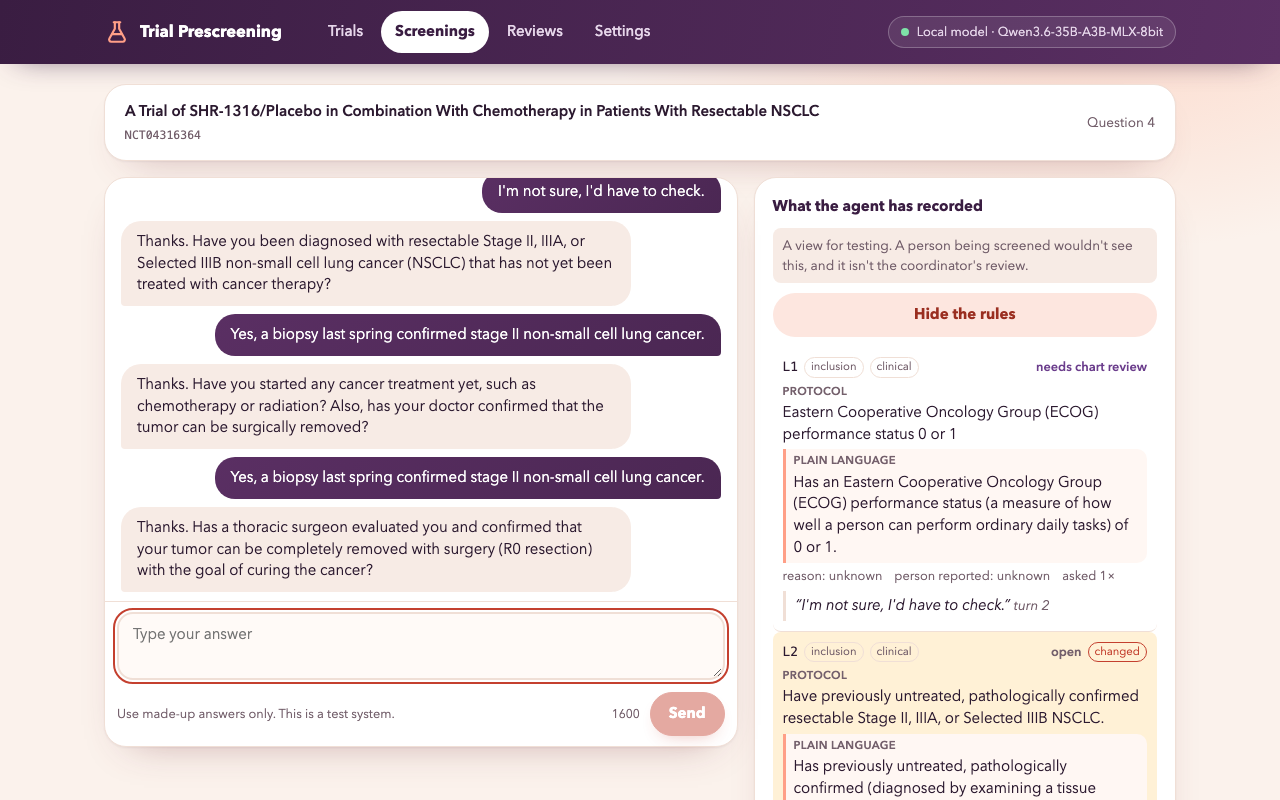
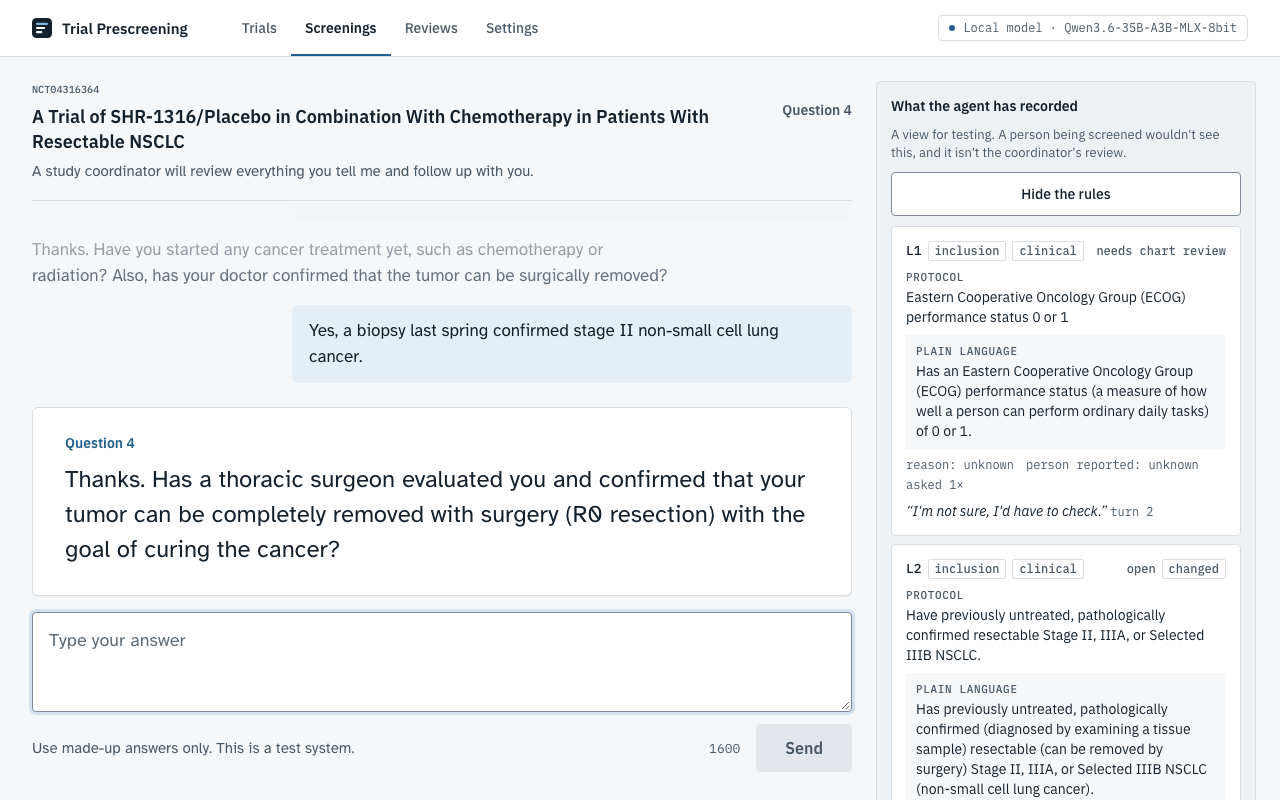
0020 step 7: images, demo and preview card retaken in Chart v2

diff --git a/e2e/capture.spec.ts b/e2e/capture.spec.ts
@@ -53,8 +53,12 @@ function trialCard(page: Page, nctId: string): Locator {
   return page.locator("article.trial-card").filter({ hasText: nctId });
 }
 
+/**
+ * The agent's messages, oldest first: its earlier turns, then the question
+ * waiting for an answer, which has a card of its own since slice 0020.
+ */
 function agentBubbles(page: Page): Locator {
-  return page.locator(".bubble.from-agent:not(.waiting)");
+  return page.locator(".bubble.from-agent:not(.waiting), .question-text");
 }
 
 /**
@@ -136,6 +140,8 @@ async function openExample(page: Page): Promise<void> {
   await expect(
     page.locator(".review-head").getByText(exampleLabel(EXAMPLE), { exact: true }),
   ).toBeVisible();
+  // Off the page, so no row is caught in its hover colour (slice 0020).
+  await page.mouse.move(0, 0);
 }
 
 /**
@@ -236,7 +242,7 @@ test("demo: add a trial, its checklist, two answers, the review", async ({ brows
   // built-in lung trial: `ANSWERS` are one made-up lung cancer patient's, and
   // the added trial is for colorectal cancer (changed after the first run).
   await trialCard(demo, ADDED).getByRole("link", { name: "See the checklist" }).click();
-  await hold(2500);
+  await hold(2000);
   await demo.getByRole("link", { name: "Screenings" }).click();
   await caption(demo, "A screening on one of the built-in lung cancer trials");
   await hold(1500);
@@ -247,7 +253,7 @@ test("demo: add a trial, its checklist, two answers, the review", async ({ brows
     .getByRole("button", { name: "Start" })
     .click();
   await waitFor("The AI is writing its first question (shortened)", () => agentAnswered(demo, 0));
-  await hold(2500);
+  await hold(2000);
   for (let i = 0; i < 2; i++) {
     const question = await lastQuestion(demo);
     const before = await agentBubbles(demo).count();
@@ -255,12 +261,12 @@ test("demo: add a trial, its checklist, two answers, the review", async ({ brows
     await box.pressSequentially(answerFor(question), { delay: 25 });
     await box.press("Enter");
     await waitFor("Thinking (shortened)", () => agentAnswered(demo, before));
-    await hold(2500);
+    await hold(2000);
   }
 
   await openExample(demo);
   await caption(demo, "A finished screening, from the project's examples");
-  await hold(2500);
+  await hold(2000);
   await clearCaption(demo);
   for (let i = 0; i < 6; i++) {
     await demo.mouse.wheel(0, 90);

diff --git a/e2e/capture/social-card.html b/e2e/capture/social-card.html
@@ -103,7 +103,8 @@
       .shot img {
         display: block;
         width: 1000px;
-        margin: -70px 0 0 -150px;
+        /* Past the review's summary column (212 px at this scale), to its main column. */
+        margin: -56px 0 0 -226px;
       }
     </style>
   </head>

diff --git a/src/web/styles.css b/src/web/styles.css
@@ -1705,7 +1705,6 @@ button:is(:disabled, [aria-disabled="true"]):hover {
   padding: 14px var(--space-4);
   border-radius: var(--radius-control);
   cursor: pointer;
-  transition: border-color var(--dur-fast) var(--ease);
 }
 .provider input {
   grid-row: span 2;

diff --git a/work/0020-chart-v2/plan.md b/work/0020-chart-v2/plan.md
@@ -89,6 +89,11 @@ Each step is one commit, through `npm run check && git commit`. No Co-Authored-B
 **Stage 6: images and write-up**
 
 7. **Images.** `npm run screenshots` and `npm run demo` on the local model; the preview card's HTML takes the tokens and the mark.
+   - Run on oMLX (`Qwen3.6-35B-A3B-MLX-8bit`, healthy and loaded), with the key loaded from the old clone's `.env` into the capture app's process only, on the owner's go: no file written, the value never printed. The app ran with `--examples` and empty scratch folders, so on the local model.
+   - `e2e/capture.spec.ts`, three changes the new page needed: the agent's messages are its earlier turns and `.question-text`, since the newest question has its own card (the first run timed out counting bubbles); the mouse is moved off the page before the review's stills, since the first take caught a "Not met" row in its hover colour, which in that image reads as emphasis on an outcome; the demo's four 2.5 s holds are 2 s, since the GIF was 5.27 MB at the smallest setting and is now 4.75 MB at 720 px, 24.5 s.
+   - The preview card's inset is shifted past the review's summary column (`margin: -56px 0 0 -226px`).
+   - `.provider` loses its border transition, which isn't in the design and was caught mid-fade in the Settings still.
+   - Every image and a contact sheet of the GIF were looked at. The screening's first card holds the agent's opening and first question together, as the agent sends them.
 8. **Docs and roadmap.** `docs/` where it describes the look; `work/ROADMAP.md`.
 9. **Review passes** from `REVIEW.md`.
 
@@ -96,7 +101,7 @@ Each step is one commit, through `npm run check && git commit`. No Co-Authored-B
 
 ## Files that change (against `main`)
 
-Stage 1: `src/web/styles.css`, `src/web/App.tsx`, `src/web/index.html`, `src/web/fonts/*` (new), `src/web/public/*` (new), `src/server/app.ts`, `tests/server/app.test.ts`. Stage 2: `src/web/ReviewPage.tsx`, `src/web/review.ts`, `src/web/styles.css`. Stage 3: `src/web/ConversationView.tsx`, `src/web/ParticipantPane.tsx`, `src/web/TesterPanel.tsx`, `src/screening/templates.ts`, `src/web/styles.css`. Stage 4: `src/web/TrialsPage.tsx`, `src/web/styles.css`. Stage 5: `src/web/TrialPage.tsx`, `src/web/styles.css`, `e2e/capture/social-card.html`. Stage 6 adds the images, docs and roadmap.
+Stage 1: `src/web/styles.css`, `src/web/App.tsx`, `src/web/index.html`, `src/web/fonts/*` (new), `src/web/public/*` (new), `src/server/app.ts`, `tests/server/app.test.ts`. Stage 2: `src/web/ReviewPage.tsx`, `src/web/review.ts`, `src/web/styles.css`. Stage 3: `src/web/ConversationView.tsx`, `src/web/ParticipantPane.tsx`, `src/web/TesterPanel.tsx`, `src/screening/templates.ts`, `src/web/styles.css`. Stage 4: `src/web/TrialsPage.tsx`, `src/web/styles.css`. Stage 5: `src/web/TrialPage.tsx`, `src/web/styles.css`, `e2e/capture/social-card.html`. Stage 6: `docs/images/*` (all seven), `e2e/capture.spec.ts`, `e2e/capture/social-card.html`, `src/web/styles.css`, `docs/running.md`, `docs/coordinator-review.md`, `work/ROADMAP.md`.
 
 ## Risks
 
